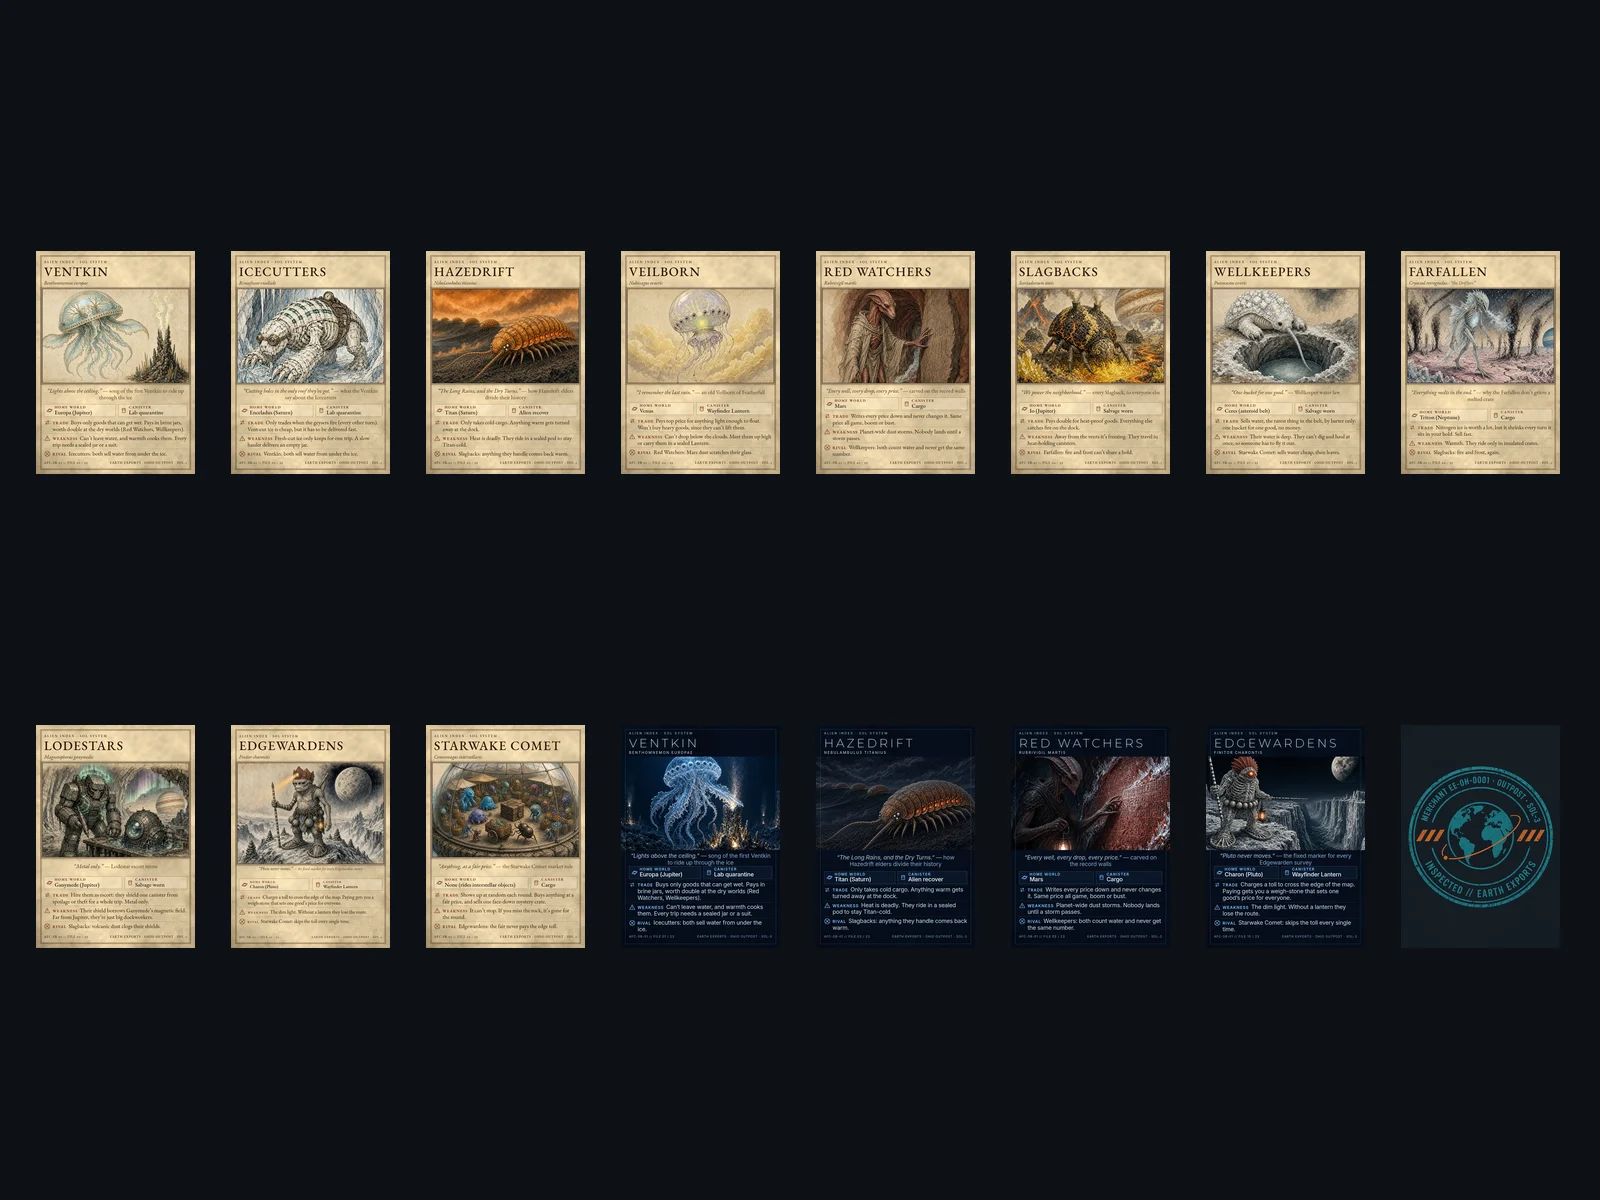
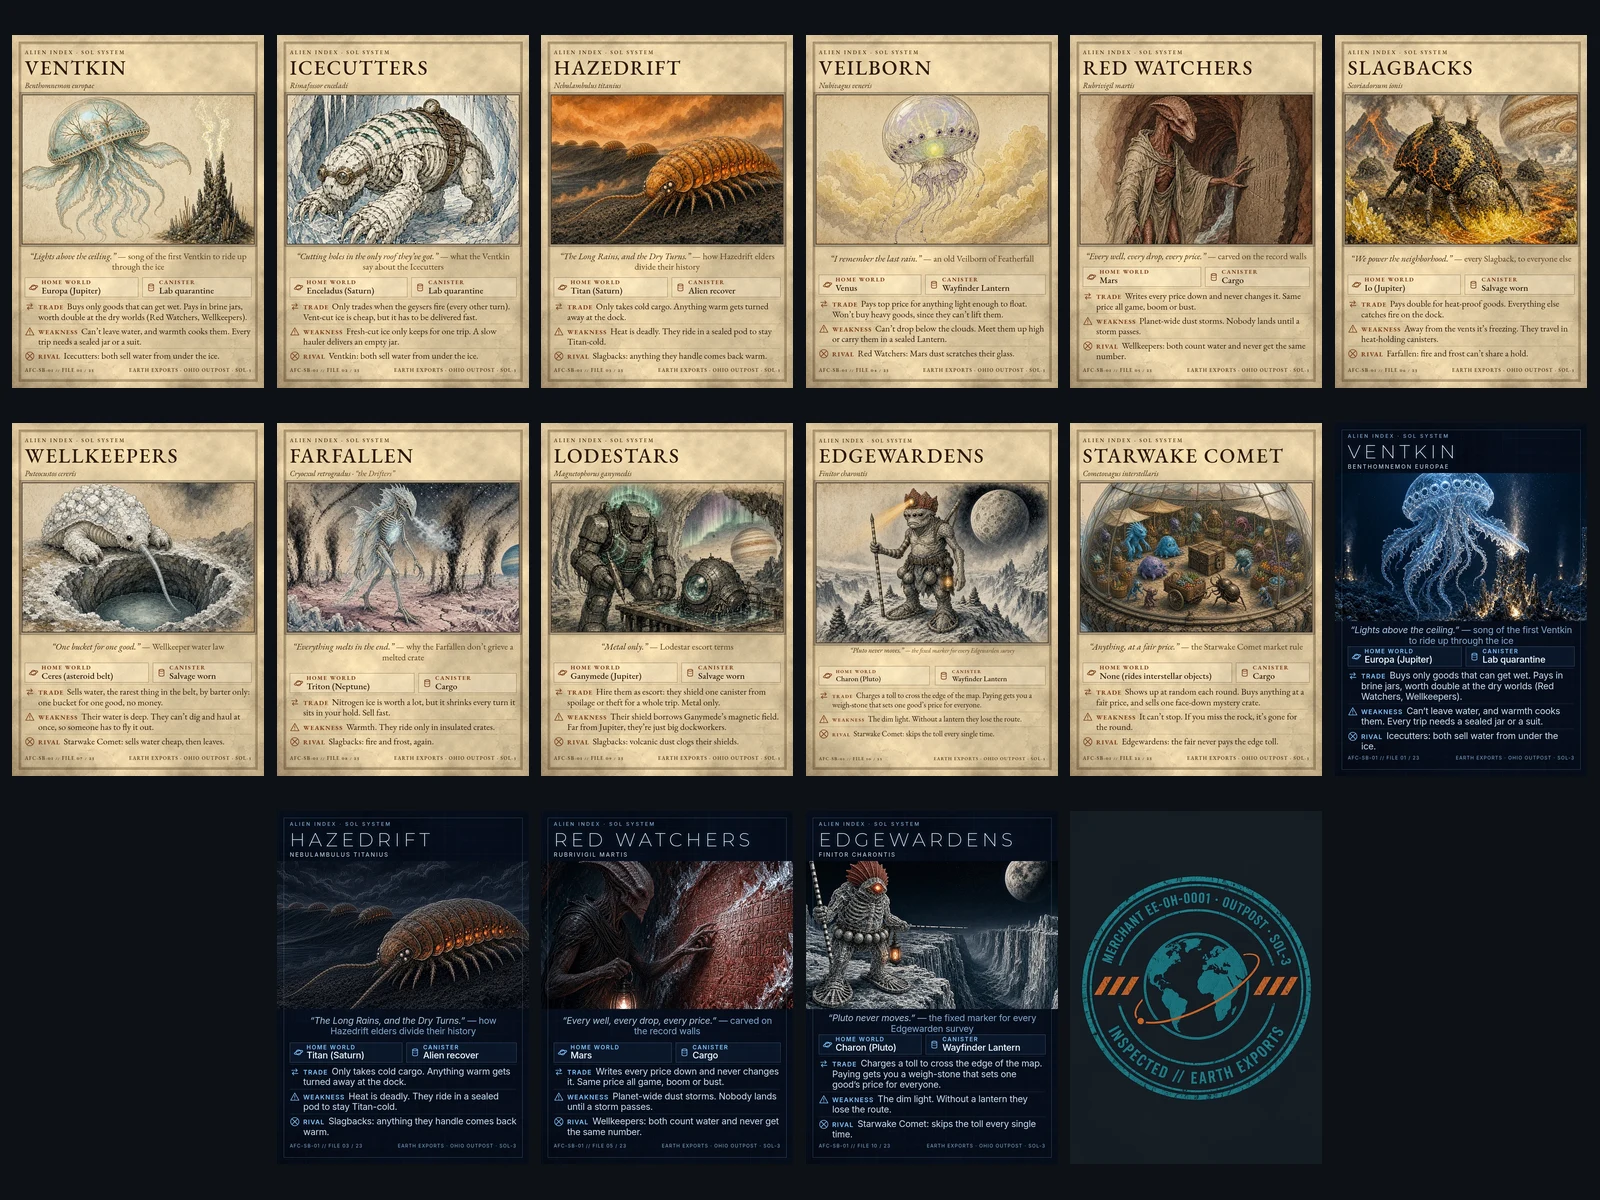
Preview: bigger card grids; news line names the Merchant Starter and Beyond Sol

diff --git a/sector-01.html b/sector-01.html
@@ -6,7 +6,7 @@
   <title>Cards &amp; Games · Earth Exports</title>
   <meta name="description" content="Alien trading card packs and MANIFEST, a quick tabletop trading game, from a small Ohio maker shop.">
   <link rel="icon" href="assets/logos/ee-logo-sol3-mark.svg" type="image/svg+xml">
-  <link rel="stylesheet" href="css/styles.css?v=20261012-packs2">
+  <link rel="stylesheet" href="css/styles.css?v=20261012-packs3">
 </head>
 <body class="mode-public">
   <div class="starfield" aria-hidden="true"></div>
@@ -84,7 +84,7 @@
       <p class="grid-note">Art is still being finished. No prices or release dates yet.</p>
       <div class="product-grid" aria-label="Cards and games">
         <article class="product-card">
-          <figure class="ph ph-fit"><img src="images/products/merchant-starter.webp?v=20261012-packs2" width="1600" height="1200" loading="lazy" decoding="async" alt="The Merchant Starter cards: the 11 Sol species as light cards, plus 4 dark crew-file cards."></figure>
+          <figure class="ph ph-fit"><img src="images/products/merchant-starter.webp?v=20261012-packs3" width="1600" height="1200" loading="lazy" decoding="async" alt="The Merchant Starter cards: the 11 Sol species as light cards, plus 4 dark crew-file cards."></figure>
           <div class="pc-body">
             <p class="pc-lore">Starter set</p>
             <h3>Merchant Starter (Sol)</h3>
@@ -94,7 +94,7 @@
           </div>
         </article>
         <article class="product-card">
-          <figure class="ph ph-fit"><img src="images/products/beyond-sol.webp?v=20261012-packs2" width="1600" height="1200" loading="lazy" decoding="async" alt="The 12 Beyond Sol species cards."></figure>
+          <figure class="ph ph-fit"><img src="images/products/beyond-sol.webp?v=20261012-packs3" width="1600" height="1200" loading="lazy" decoding="async" alt="The 12 Beyond Sol species cards."></figure>
           <div class="pc-body">
             <p class="pc-lore">Expansion</p>
             <h3>Earth Exports: Beyond Sol</h3>

diff --git a/index.html b/index.html
@@ -6,7 +6,7 @@
   <title>Earth Exports — sci-fi props, card games &amp; STL files · Ohio Outpost // Sol-3</title>
   <meta name="description" content="Earth Exports is a small Ohio shop making sci-fi 3D-printed props, alien card games and STL files, sold at the local flea. Original fiction, real goods. Ohio Outpost // Sol-3.">
   <link rel="icon" href="assets/logos/ee-logo-sol3-mark.svg" type="image/svg+xml">
-  <link rel="stylesheet" href="css/styles.css?v=20261012-packs2">
+  <link rel="stylesheet" href="css/styles.css?v=20261012-packs3">
 </head>
 <body class="mode-public">
   <div class="starfield" aria-hidden="true"></div>
@@ -110,7 +110,7 @@
         <p class="shelf-note">Three kinds of things, all designed and finished in Ohio. Pick one to see the products.</p>
         <div class="cat-grid">
           <a class="cat-tile" href="sector-01.html">
-            <figure class="ph ph-fit"><img src="images/products/all-cards.webp?v=20261012-packs2" width="1600" height="1200" loading="lazy" decoding="async" alt="All 23 Earth Exports species cards laid out in a grid."></figure>
+            <figure class="ph ph-fit"><img src="images/products/all-cards.webp?v=20261012-packs3" width="1600" height="1200" loading="lazy" decoding="async" alt="All 23 Earth Exports species cards laid out in a grid."></figure>
             <span class="cat-body"><span class="cat-name">Cards &amp; Games</span><span class="cat-line">The Merchant Starter, the Beyond Sol expansion, boosters and MANIFEST.</span><span class="cat-go" aria-hidden="true">Shop →</span></span>
           </a>
           <a class="cat-tile" href="sector-02.html">

diff --git a/captains-log.html b/captains-log.html
@@ -100,8 +100,8 @@
         </li>
         <li class="log-entry">
           <p class="log-meta"><time datetime="2026-09">September 2026</time> <span class="log-ty">TY 2076 · Log 09</span></p>
-          <h2>Card decks in the works</h2>
-          <p>Art for the starter deck and the numbered special deck is still being finished. No release date yet. Preorder questions are welcome.</p>
+          <h2>Card packs in the works</h2>
+          <p>Art for the Merchant Starter and the Earth Exports: Beyond Sol expansion is still being finished. No release date yet. Preorder questions are welcome.</p>
         </li>
         <li class="log-entry">
           <p class="log-meta"><time datetime="2026-09">September 2026</time> <span class="log-ty">TY 2076 · Log 09</span></p>
